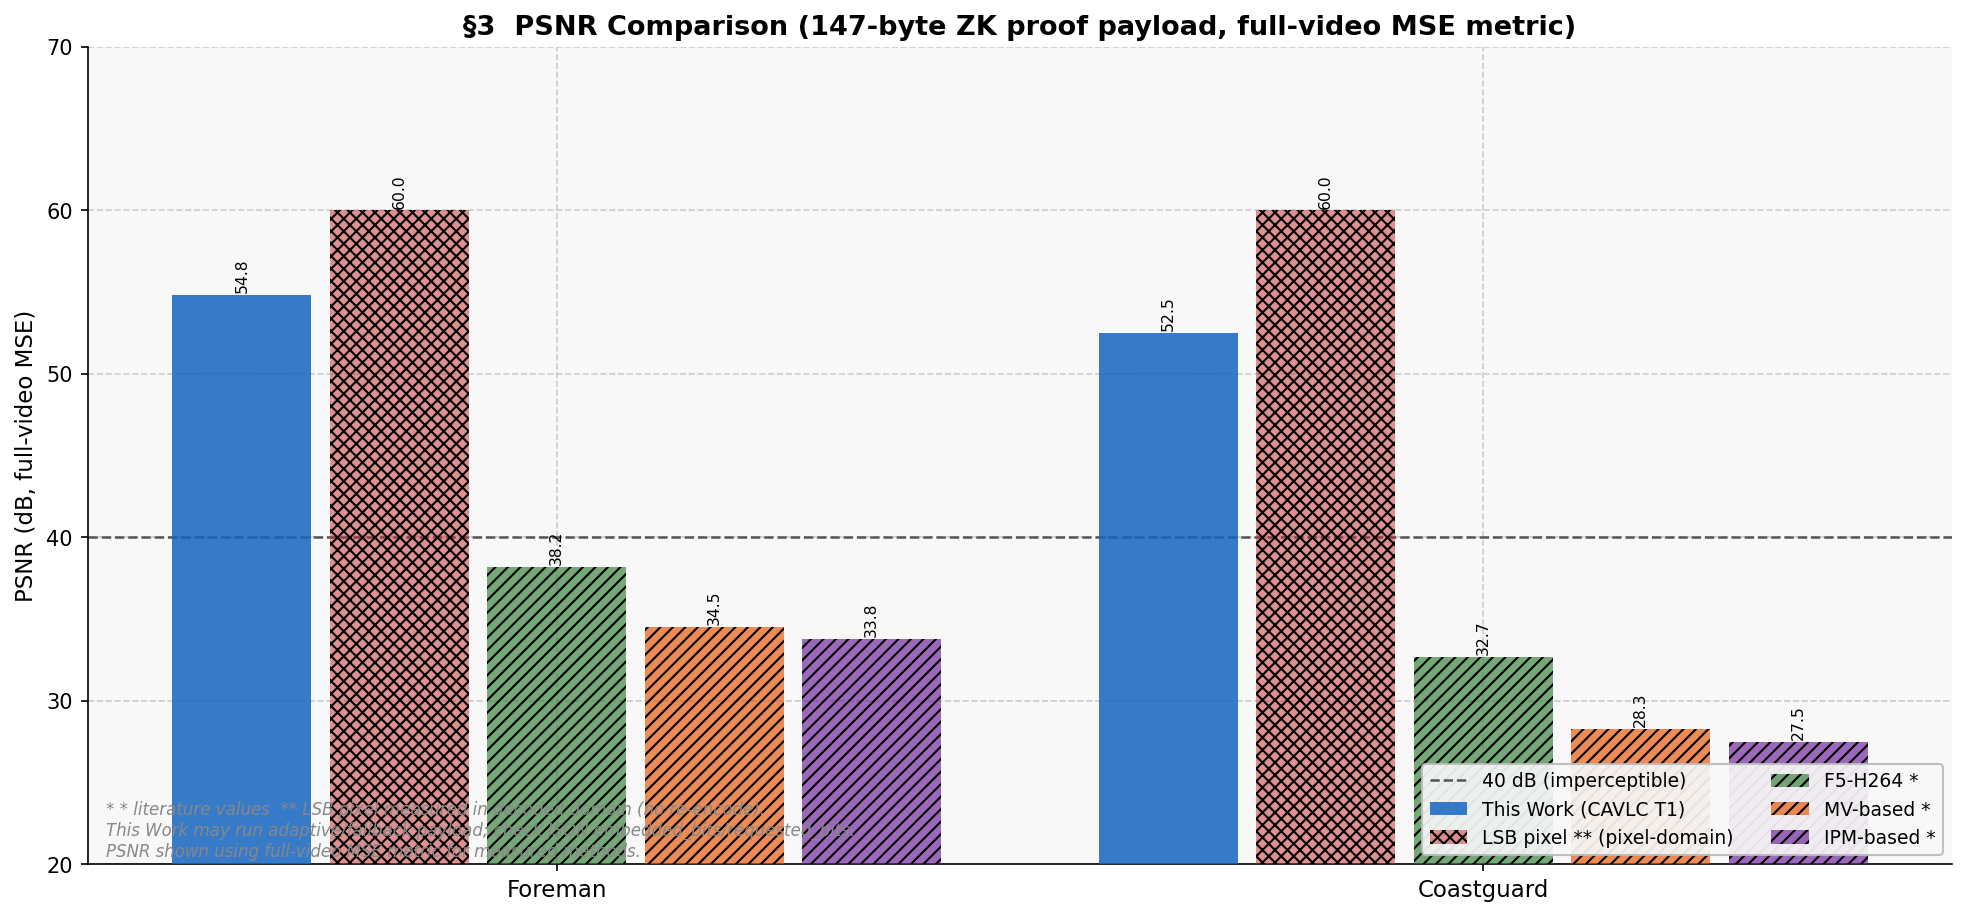
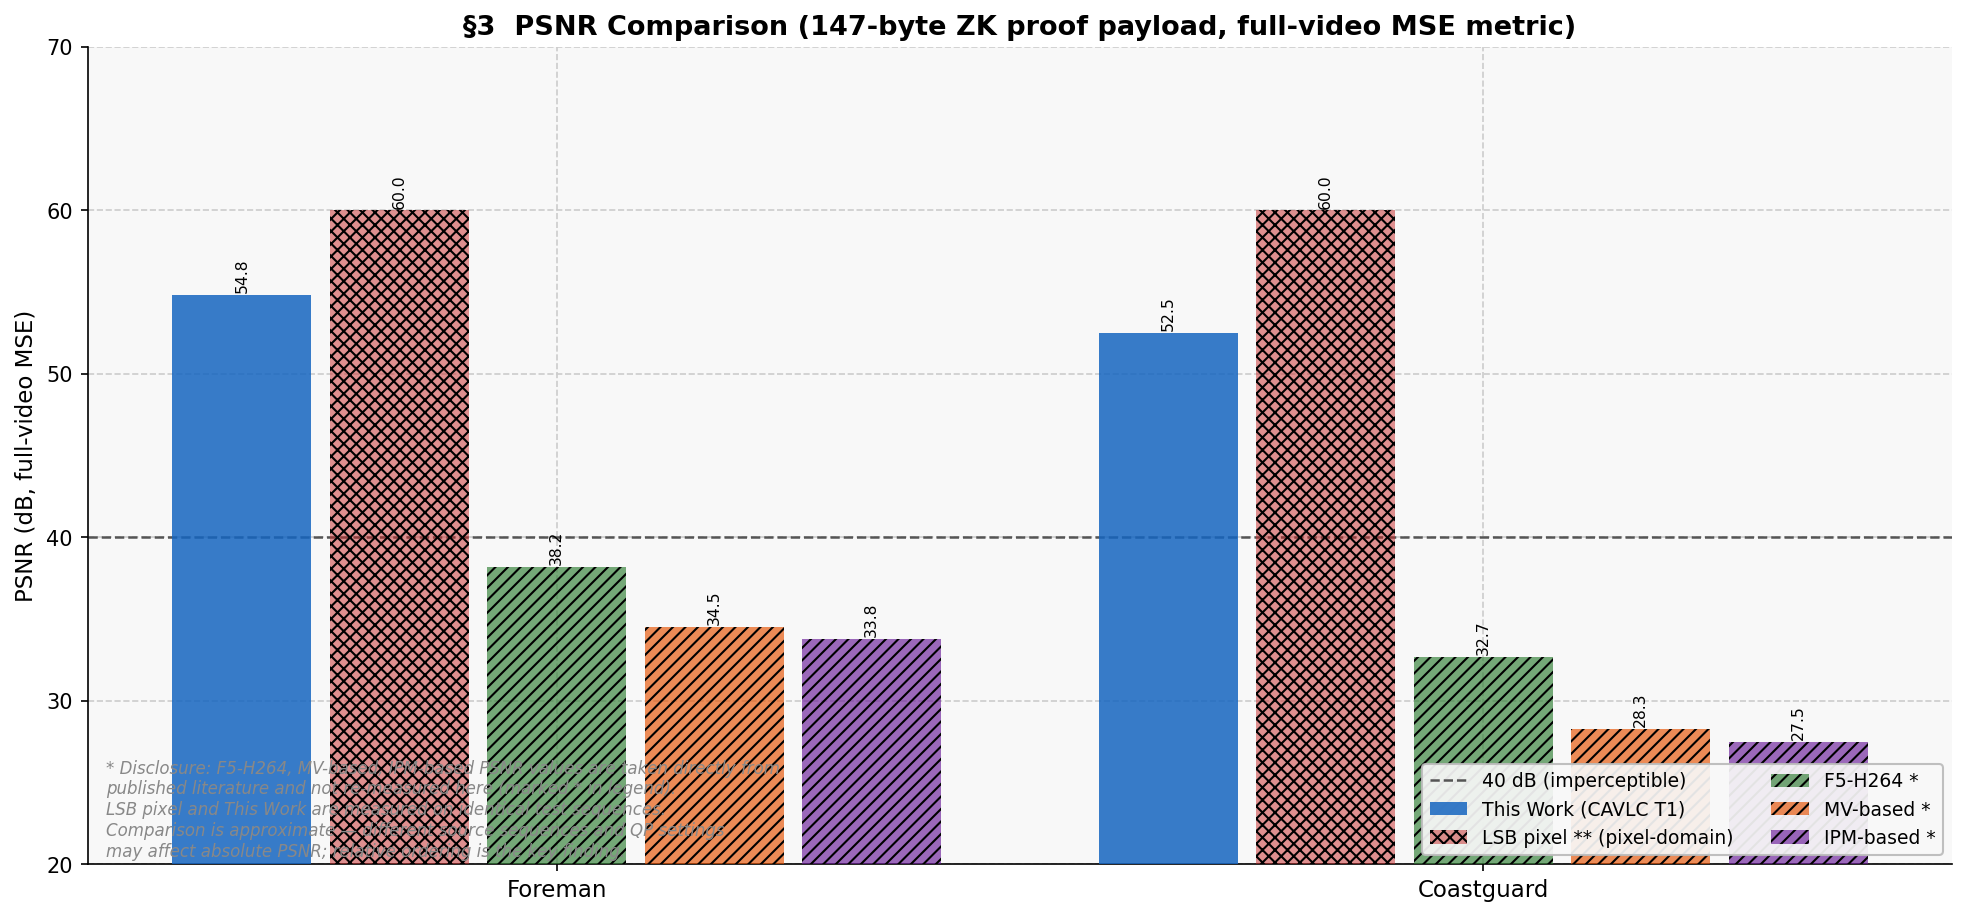
fix(benchmark): SEC3 literature disclosure annotation on PSNR comparison plot

Changed region(s): [[0.062, 0.8244, 0.4342, 0.9466]]

diff --git a/VideoLevel/benchmark/sec3_methods.py b/VideoLevel/benchmark/sec3_methods.py
@@ -360,9 +360,11 @@ def plot_psnr_comparison(data: dict) -> None:
     ax.set_ylim(20, max(all_vals) + 10 if all_vals else 70)
 
     annotate_literature(ax,
-        "* literature values  ** LSB pixel measured in decoded domain (no re-encode).\n"
-        "This Work may run adaptive/fallback payload; check JSON embedded_bits/requested_bits.\n"
-        "PSNR shown using full-video MSE metric for measured methods.")
+        "Disclosure: F5-H264, MV-based, IPM-based PSNR values are taken directly from\n"
+        "published literature and not re-measured here (marked * in legend).\n"
+        "LSB pixel and This Work are measured on identical test sequences.\n"
+        "Comparison is approximate — different source sequences and QP settings\n"
+        "may affect absolute PSNR; relative ordering is the key finding.")
     save_fig(fig, "sec3_psnr_comparison")
 
 
